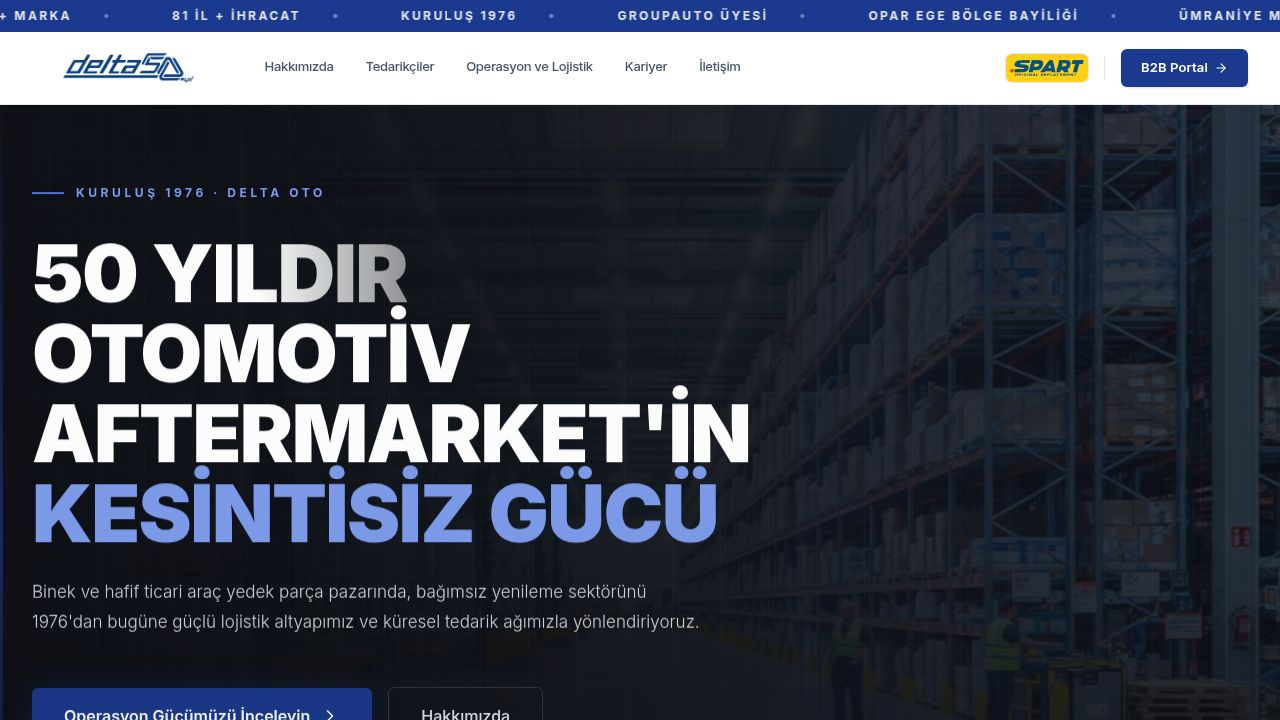
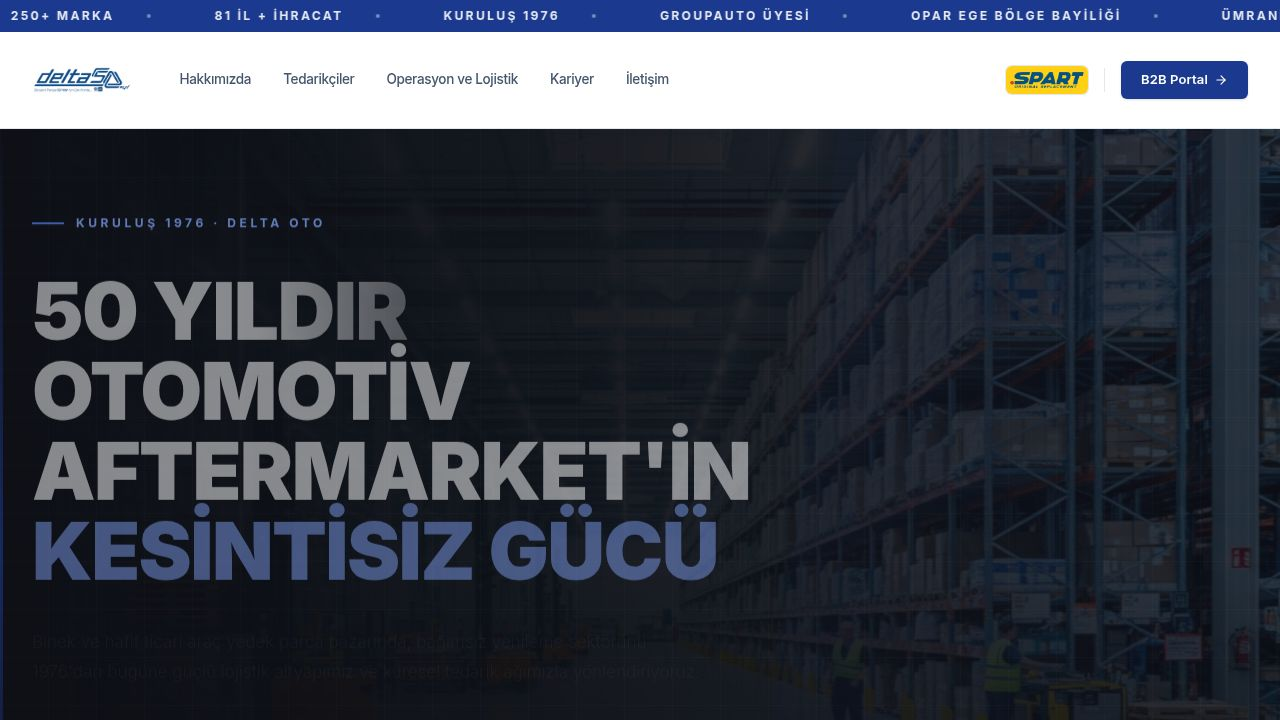
Update website header and content with new branding and event information
Update header height and logo size, modify text for Groupauto partnership, replace event location from Mallorca to Dubai, and adjust call-to-action elements.

Replit-Commit-Author: Agent
Replit-Commit-Session-Id: 407c0f17-faed-4362-afd0-c158c1c9d8cf
Replit-Commit-Checkpoint-Type: full_checkpoint
Replit-Commit-Event-Id: bd8364a0-95b2-4956-9591-6e77bac9fd49
Replit-Commit-Screenshot-Url: https://storage.googleapis.com/screenshot-production-us-central1/1825e76a-c698-4ead-a029-f33ba94a3e54/407c0f17-faed-4362-afd0-c158c1c9d8cf/kdqEvlY
Replit-Helium-Checkpoint-Created: true

diff --git a/artifacts/delta-oto/src/components/LandingPage.tsx b/artifacts/delta-oto/src/components/LandingPage.tsx
@@ -343,17 +343,17 @@ export function LandingPage() {
         className="sticky top-0 z-50 transition-all duration-300 bg-white/90 backdrop-blur-md border-b border-slate-200"
         style={{ ...(scrolled ? { background: "rgba(255,255,255,0.98)", borderColor: "rgba(15,23,42,0.1)", boxShadow: "0 4px 24px rgba(15,23,42,0.08)" } : {}) }}
       >
-        <div className="max-w-7xl mx-auto px-4 sm:px-6 lg:px-8 h-16 sm:h-[72px] flex items-center justify-between">
+        <div className="max-w-7xl mx-auto px-4 sm:px-6 lg:px-8 h-20 sm:h-24 flex items-center justify-between">
           {/* Left: logo + nav */}
-          <div className="flex items-center gap-8 lg:gap-10">
+          <div className="flex items-center gap-8 lg:gap-12">
             <a href="#" className="flex items-center shrink-0">
               <img
                 src="/images/delta-oto-logo.png"
                 alt="Delta Oto 50. Yıl"
-                className="h-8 w-auto"
+                className="h-12 sm:h-14 w-auto"
               />
             </a>
-            <nav className="hidden lg:flex items-center gap-6 xl:gap-8 text-[13px] font-medium tracking-tight text-slate-600">
+            <nav className="hidden lg:flex items-center gap-6 xl:gap-8 text-[13.5px] font-medium tracking-tight text-slate-600">
               {["Hakkımızda", "Tedarikçiler", "Operasyon ve Lojistik", "Kariyer", "İletişim"].map(link => (
                 <a key={link} href="#" className="do-nav-link whitespace-nowrap hover:text-[#1B3A8F] transition-colors duration-200">{link}</a>
               ))}
@@ -480,7 +480,7 @@ export function LandingPage() {
                 Uluslararası Güç,<br/>Yerel Hakimiyet.
               </h2>
               <p ref={ref} className="do-reveal do-d2 text-[17px] text-blue-100/80 leading-[1.8] font-light">
-                Dünyanın en büyük yedek parça organizasyonlarından Groupauto'nun gücüyle, optimize edilmiş satın alma kapasitemizi birleştiriyoruz. Global vizyonumuzla, iş ortaklarımıza her geçen gün daha rekabetçi ve öncü çalışma olanakları sunuyoruz.
+                Dünyanın en büyük bağımsız yedek parça organizasyonlarından Groupauto'nun üyesi olarak, optimize edilmiş global satın alma kapasitesini yerel pazar bilgisiyle birleştiriyoruz. Bu yapı, tedarik ettiğimiz ürünlerde rekabetçi fiyat ve geniş çeşitliliği mümkün kılıyor.
               </p>
 
               <div ref={ref} className="do-reveal do-d3 mt-12 flex gap-12">
@@ -555,18 +555,18 @@ export function LandingPage() {
               Operasyon & Lojistik
             </p>
             <h2 ref={ref} className="do-reveal do-d1 text-4xl md:text-5xl font-black text-white mb-8 leading-[1.1] tracking-tight">
-              Kesintisiz Tedarik.<br />
-              <span className="text-[#7d9bea]">Operasyonel Üstünlük.</span>
+              Geniş Ağ,<br />
+              <span className="text-[#7d9bea]">Güvenilir Tedarik.</span>
             </h2>
             <p ref={ref} className="do-reveal do-d2 text-[16px] text-gray-300 leading-[1.85] font-light mb-5">
-              Otomotiv satış sonrası pazarında mazerete yer yoktur. Lojistiği sadece bir taşıma işlemi değil, iş ortaklarımız için stratejik bir rekabet avantajı olarak yönetiyoruz. Ümraniye'deki merkezimizden Türkiye'nin tamamına ve küresel pazarlara uzanan dağıtım ağımızla, binek ve hafif ticari araç gruplarında 250'den fazla markanın tedariğini sağlıyoruz.
+              Lojistiği stratejik bir tedarik gücü olarak yönetiyoruz. Ümraniye'deki merkezimizden Türkiye'nin tamamına ve küresel pazarlara uzanan dağıtım ağımızla, binek ve hafif ticari araç gruplarında 250'den fazla markanın tedariğini sağlıyoruz.
             </p>
             <p ref={ref} className="do-reveal do-d3 text-[16px] text-gray-300 leading-[1.85] font-light">
-              Yakın zamanda Opar Ege Bölge Bayiliği'ni de bünyemize katarak sahadaki gücümüzü pekiştirdik.
+              Opar Ege Bölge Bayiliği'ni de bünyemize katarak bölgesel erişimimizi ve stok derinliğimizi genişlettik.
             </p>
 
             <div ref={ref} className="do-reveal do-d4 mt-10 flex flex-wrap gap-3">
-              {["Tam Günlük Dağıtım", "Soğuk Zincir", "Stok Optimizasyonu", "İhracat Lojistiği"].map(chip => (
+              {["Tam Günlük Dağıtım", "Stok Derinliği", "Stok Optimizasyonu", "İhracat Lojistiği"].map(chip => (
                 <span key={chip} className="text-xs text-gray-300 border border-white/10 hover:border-white/25 hover:text-white rounded-md px-3 py-1.5 font-medium transition-colors duration-200">{chip}</span>
               ))}
             </div>
@@ -588,7 +588,7 @@ export function LandingPage() {
               </h2>
             </div>
             <p ref={ref} className="do-reveal do-d2 text-slate-600 text-sm max-w-xs leading-relaxed">
-              50 yıllık ivmemizi her alanda somut büyümeyle sürdürüyoruz.
+              Sektördeki gelişmeleri ve Delta Oto'nun sahaya yansıyan adımlarını buradan takip edebilirsiniz.
             </p>
           </div>
 
@@ -607,7 +607,7 @@ export function LandingPage() {
                 Opar Ege Bölge Bayiliği Operasyonu Başladı
               </h3>
               <p className="text-[15px] text-slate-600 leading-[1.8] font-light">
-                Yarım asırlık büyüme ivmemizi sahada yeni yatırımlarla somutlaştırıyoruz. Mayıs 2026 itibarıyla Opar Ege Bölge Bayiliği operasyonunu devralarak Ege bölgesindeki tedarik ağımızı doğrudan genişlettik. Hedefimiz net: İş ortaklarımıza her koşulda daha hızlı, daha geniş ve daha güçlü bir envanter sunmak.
+                Mayıs 2026 itibarıyla Opar Ege Bölge Bayiliği operasyonunu devralarak Ege bölgesindeki tedarik ağımızı doğrudan genişlettik. Bu adımla birlikte bölgeye yönelik ürün çeşitliliğimiz ve teslimat kapasitemiz önemli ölçüde güçlendi.
               </p>
               <div className="mt-8 flex items-center gap-2 text-[13px] text-[#1B3A8F] font-medium opacity-0 group-hover:opacity-100 transition-opacity">
                 Devamını Oku <ArrowRight className="w-3.5 h-3.5" />
@@ -620,15 +620,15 @@ export function LandingPage() {
             >
               <div className="absolute top-0 right-0 w-32 h-32 bg-[#1B3A8F]/5 rounded-full -translate-y-1/2 translate-x-1/2 group-hover:scale-150 transition-transform duration-500"></div>
               <div className="flex items-center gap-2 mb-6">
-                <span className="text-[10px] font-bold uppercase tracking-widest text-[#1B3A8F] bg-[#1B3A8F]/10 border border-[#1B3A8F]/20 px-2.5 py-1 rounded">27–29 Mayıs 2026</span>
+                <span className="text-[10px] font-bold uppercase tracking-widest text-[#1B3A8F] bg-[#1B3A8F]/10 border border-[#1B3A8F]/20 px-2.5 py-1 rounded">2025 — Dubai</span>
                 <Globe className="w-3.5 h-3.5 text-slate-500" />
                 <span className="text-[10px] text-slate-600 uppercase tracking-wider">Uluslararası Zirve</span>
               </div>
               <h3 className="text-xl font-bold text-slate-900 mb-5 leading-snug">
-                GROUPAUTO O2O Europe & O2O Heavy Duty Days 2026 — Mallorca
+                Groupauto International Dubai O2O Tedarikçi Günleri 2025
               </h3>
               <p className="text-[15px] text-slate-600 leading-[1.8] font-light">
-                27-29 Mayıs tarihlerinde düzenlenen uluslararası zirvede Türkiye'yi ve yerel gücümüzü temsil ettik. İş ortaklarımızın pazar rekabetinde daha da güçlenmesi ve yeni fırsatlara erişimi için 35 farklı global üreticiyle kritik görüşmeler gerçekleştirdik. Sektörün geleceği yazılırken masadayız.
+                Dubai'de düzenlenen Groupauto International O2O Tedarikçi Günleri'nde Türkiye'yi ve Delta Oto'yu temsil ettik. 35'ten fazla global üreticiyle gerçekleştirilen görüşmelerde tedarik portföyümüzü ve piyasa trendlerini ele aldık.
               </p>
               <div className="mt-8 flex items-center gap-2 text-[13px] text-[#1B3A8F] font-medium opacity-0 group-hover:opacity-100 transition-opacity">
                 Devamını Oku <ArrowRight className="w-3.5 h-3.5" />
@@ -645,10 +645,10 @@ export function LandingPage() {
         <div className="max-w-7xl mx-auto px-6 lg:px-8 relative z-10 flex flex-col md:flex-row items-center justify-between gap-8">
           <div>
             <h2 ref={ref} className="do-reveal text-3xl md:text-4xl font-black text-white tracking-tight">
-              İş ortağımız olmak ister misiniz?
+              Yedek Parça Siparişleriniz için B2B Portalımız
             </h2>
             <p ref={ref} className="do-reveal do-d1 text-white/75 text-base mt-3">
-              B2B portalımıza erişin, ağımıza katılın.
+              Portalımız üzerinden yedek parça siparişi verebilir, stok ve fiyat bilgilerine ulaşabilirsiniz.
             </p>
           </div>
           <div ref={ref} className="do-reveal do-d2 flex gap-4 shrink-0">
@@ -672,7 +672,7 @@ export function LandingPage() {
               <img
                 src="/images/delta-oto-logo.png"
                 alt="Delta Oto"
-                className="h-10 do-logo-invert mb-8 opacity-80"
+                className="h-14 do-logo-invert mb-8 opacity-85"
               />
               <ul className="space-y-4 text-sm text-gray-500">
                 <li className="flex items-start gap-3">

diff --git a/artifacts/mockup-sandbox/src/components/mockups/delta-oto/LandingPage.tsx b/artifacts/mockup-sandbox/src/components/mockups/delta-oto/LandingPage.tsx
@@ -343,17 +343,17 @@ export function LandingPage() {
         className="sticky top-0 z-50 transition-all duration-300 bg-white/90 backdrop-blur-md border-b border-slate-200"
         style={{ ...(scrolled ? { background: "rgba(255,255,255,0.98)", borderColor: "rgba(15,23,42,0.1)", boxShadow: "0 4px 24px rgba(15,23,42,0.08)" } : {}) }}
       >
-        <div className="max-w-7xl mx-auto px-4 sm:px-6 lg:px-8 h-16 sm:h-[72px] flex items-center justify-between">
+        <div className="max-w-7xl mx-auto px-4 sm:px-6 lg:px-8 h-20 sm:h-24 flex items-center justify-between">
           {/* Left: logo + nav */}
-          <div className="flex items-center gap-8 lg:gap-10">
+          <div className="flex items-center gap-8 lg:gap-12">
             <a href="#" className="flex items-center shrink-0">
               <img
                 src="/images/delta-oto-logo.png"
                 alt="Delta Oto 50. Yıl"
-                className="h-8 w-auto"
+                className="h-12 sm:h-14 w-auto"
               />
             </a>
-            <nav className="hidden lg:flex items-center gap-6 xl:gap-8 text-[13px] font-medium tracking-tight text-slate-600">
+            <nav className="hidden lg:flex items-center gap-6 xl:gap-8 text-[13.5px] font-medium tracking-tight text-slate-600">
               {["Hakkımızda", "Tedarikçiler", "Operasyon ve Lojistik", "Kariyer", "İletişim"].map(link => (
                 <a key={link} href="#" className="do-nav-link whitespace-nowrap hover:text-[#1B3A8F] transition-colors duration-200">{link}</a>
               ))}
@@ -480,7 +480,7 @@ export function LandingPage() {
                 Uluslararası Güç,<br/>Yerel Hakimiyet.
               </h2>
               <p ref={ref} className="do-reveal do-d2 text-[17px] text-blue-100/80 leading-[1.8] font-light">
-                Dünyanın en büyük yedek parça organizasyonlarından Groupauto'nun gücüyle, optimize edilmiş satın alma kapasitemizi birleştiriyoruz. Global vizyonumuzla, iş ortaklarımıza her geçen gün daha rekabetçi ve öncü çalışma olanakları sunuyoruz.
+                Dünyanın en büyük bağımsız yedek parça organizasyonlarından Groupauto'nun üyesi olarak, optimize edilmiş global satın alma kapasitesini yerel pazar bilgisiyle birleştiriyoruz. Bu yapı, tedarik ettiğimiz ürünlerde rekabetçi fiyat ve geniş çeşitliliği mümkün kılıyor.
               </p>
 
               <div ref={ref} className="do-reveal do-d3 mt-12 flex gap-12">
@@ -555,18 +555,18 @@ export function LandingPage() {
               Operasyon & Lojistik
             </p>
             <h2 ref={ref} className="do-reveal do-d1 text-4xl md:text-5xl font-black text-white mb-8 leading-[1.1] tracking-tight">
-              Kesintisiz Tedarik.<br />
-              <span className="text-[#7d9bea]">Operasyonel Üstünlük.</span>
+              Geniş Ağ,<br />
+              <span className="text-[#7d9bea]">Güvenilir Tedarik.</span>
             </h2>
             <p ref={ref} className="do-reveal do-d2 text-[16px] text-gray-300 leading-[1.85] font-light mb-5">
-              Otomotiv satış sonrası pazarında mazerete yer yoktur. Lojistiği sadece bir taşıma işlemi değil, iş ortaklarımız için stratejik bir rekabet avantajı olarak yönetiyoruz. Ümraniye'deki merkezimizden Türkiye'nin tamamına ve küresel pazarlara uzanan dağıtım ağımızla, binek ve hafif ticari araç gruplarında 250'den fazla markanın tedariğini sağlıyoruz.
+              Lojistiği stratejik bir tedarik gücü olarak yönetiyoruz. Ümraniye'deki merkezimizden Türkiye'nin tamamına ve küresel pazarlara uzanan dağıtım ağımızla, binek ve hafif ticari araç gruplarında 250'den fazla markanın tedariğini sağlıyoruz.
             </p>
             <p ref={ref} className="do-reveal do-d3 text-[16px] text-gray-300 leading-[1.85] font-light">
-              Yakın zamanda Opar Ege Bölge Bayiliği'ni de bünyemize katarak sahadaki gücümüzü pekiştirdik.
+              Opar Ege Bölge Bayiliği'ni de bünyemize katarak bölgesel erişimimizi ve stok derinliğimizi genişlettik.
             </p>
 
             <div ref={ref} className="do-reveal do-d4 mt-10 flex flex-wrap gap-3">
-              {["Tam Günlük Dağıtım", "Soğuk Zincir", "Stok Optimizasyonu", "İhracat Lojistiği"].map(chip => (
+              {["Tam Günlük Dağıtım", "Stok Derinliği", "Stok Optimizasyonu", "İhracat Lojistiği"].map(chip => (
                 <span key={chip} className="text-xs text-gray-300 border border-white/10 hover:border-white/25 hover:text-white rounded-md px-3 py-1.5 font-medium transition-colors duration-200">{chip}</span>
               ))}
             </div>
@@ -588,7 +588,7 @@ export function LandingPage() {
               </h2>
             </div>
             <p ref={ref} className="do-reveal do-d2 text-slate-600 text-sm max-w-xs leading-relaxed">
-              50 yıllık ivmemizi her alanda somut büyümeyle sürdürüyoruz.
+              Sektördeki gelişmeleri ve Delta Oto'nun sahaya yansıyan adımlarını buradan takip edebilirsiniz.
             </p>
           </div>
 
@@ -607,7 +607,7 @@ export function LandingPage() {
                 Opar Ege Bölge Bayiliği Operasyonu Başladı
               </h3>
               <p className="text-[15px] text-slate-600 leading-[1.8] font-light">
-                Yarım asırlık büyüme ivmemizi sahada yeni yatırımlarla somutlaştırıyoruz. Mayıs 2026 itibarıyla Opar Ege Bölge Bayiliği operasyonunu devralarak Ege bölgesindeki tedarik ağımızı doğrudan genişlettik. Hedefimiz net: İş ortaklarımıza her koşulda daha hızlı, daha geniş ve daha güçlü bir envanter sunmak.
+                Mayıs 2026 itibarıyla Opar Ege Bölge Bayiliği operasyonunu devralarak Ege bölgesindeki tedarik ağımızı doğrudan genişlettik. Bu adımla birlikte bölgeye yönelik ürün çeşitliliğimiz ve teslimat kapasitemiz önemli ölçüde güçlendi.
               </p>
               <div className="mt-8 flex items-center gap-2 text-[13px] text-[#1B3A8F] font-medium opacity-0 group-hover:opacity-100 transition-opacity">
                 Devamını Oku <ArrowRight className="w-3.5 h-3.5" />
@@ -620,15 +620,15 @@ export function LandingPage() {
             >
               <div className="absolute top-0 right-0 w-32 h-32 bg-[#1B3A8F]/5 rounded-full -translate-y-1/2 translate-x-1/2 group-hover:scale-150 transition-transform duration-500"></div>
               <div className="flex items-center gap-2 mb-6">
-                <span className="text-[10px] font-bold uppercase tracking-widest text-[#1B3A8F] bg-[#1B3A8F]/10 border border-[#1B3A8F]/20 px-2.5 py-1 rounded">27–29 Mayıs 2026</span>
+                <span className="text-[10px] font-bold uppercase tracking-widest text-[#1B3A8F] bg-[#1B3A8F]/10 border border-[#1B3A8F]/20 px-2.5 py-1 rounded">2025 — Dubai</span>
                 <Globe className="w-3.5 h-3.5 text-slate-500" />
                 <span className="text-[10px] text-slate-600 uppercase tracking-wider">Uluslararası Zirve</span>
               </div>
               <h3 className="text-xl font-bold text-slate-900 mb-5 leading-snug">
-                GROUPAUTO O2O Europe & O2O Heavy Duty Days 2026 — Mallorca
+                Groupauto International Dubai O2O Tedarikçi Günleri 2025
               </h3>
               <p className="text-[15px] text-slate-600 leading-[1.8] font-light">
-                27-29 Mayıs tarihlerinde düzenlenen uluslararası zirvede Türkiye'yi ve yerel gücümüzü temsil ettik. İş ortaklarımızın pazar rekabetinde daha da güçlenmesi ve yeni fırsatlara erişimi için 35 farklı global üreticiyle kritik görüşmeler gerçekleştirdik. Sektörün geleceği yazılırken masadayız.
+                Dubai'de düzenlenen Groupauto International O2O Tedarikçi Günleri'nde Türkiye'yi ve Delta Oto'yu temsil ettik. 35'ten fazla global üreticiyle gerçekleştirilen görüşmelerde tedarik portföyümüzü ve piyasa trendlerini ele aldık.
               </p>
               <div className="mt-8 flex items-center gap-2 text-[13px] text-[#1B3A8F] font-medium opacity-0 group-hover:opacity-100 transition-opacity">
                 Devamını Oku <ArrowRight className="w-3.5 h-3.5" />
@@ -645,10 +645,10 @@ export function LandingPage() {
         <div className="max-w-7xl mx-auto px-6 lg:px-8 relative z-10 flex flex-col md:flex-row items-center justify-between gap-8">
           <div>
             <h2 ref={ref} className="do-reveal text-3xl md:text-4xl font-black text-white tracking-tight">
-              İş ortağımız olmak ister misiniz?
+              Yedek Parça Siparişleriniz için B2B Portalımız
             </h2>
             <p ref={ref} className="do-reveal do-d1 text-white/75 text-base mt-3">
-              B2B portalımıza erişin, ağımıza katılın.
+              Portalımız üzerinden yedek parça siparişi verebilir, stok ve fiyat bilgilerine ulaşabilirsiniz.
             </p>
           </div>
           <div ref={ref} className="do-reveal do-d2 flex gap-4 shrink-0">
@@ -672,7 +672,7 @@ export function LandingPage() {
               <img
                 src="/images/delta-oto-logo.png"
                 alt="Delta Oto"
-                className="h-10 do-logo-invert mb-8 opacity-80"
+                className="h-14 do-logo-invert mb-8 opacity-85"
               />
               <ul className="space-y-4 text-sm text-gray-500">
                 <li className="flex items-start gap-3">
